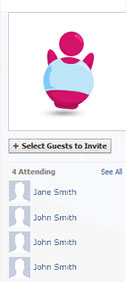
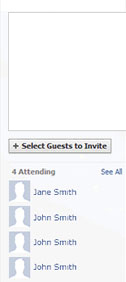
homepage scroller, facebook preview dynamic image

Changed region(s): [[0.3333, 0.0851, 0.7619, 0.4255]]

diff --git a/friendfund/public/css/site.css b/friendfund/public/css/site.css
@@ -923,14 +923,16 @@ span.controller{
 	z-index: 7
 }
 span.controller:hover{
-	background: #f5f5f1;
+	background-color: #f5f5f1;
 	border: 1px solid #ebeae5
 }
 span.controllerRight{
-	right: 4px
+	right: 4px;
+	background: url(/static/imgs/slider/slider-dx.png) 5px 25px no-repeat
 }
 span.controllerLeft{
-	left: 4px
+	left: 4px;
+	background: url(/static/imgs/slider/slider-sx.png) 5px 25px no-repeat
 }
 ul.slider{
 	height: 86px;
@@ -979,13 +981,54 @@ ul.slider li a img{
 	margin: 13px auto 0
 }
 div.whatElse {
-	padding-top: 30px
+	padding-top: 30px;
+	
 }
 div.whatElse h4 {
 	padding-bottom: 20px;
 	font-size: 18px;
-	color: #2C2C2C
+	color: #2C2C2C;
+	position: relative
+} 
+div.whatElse h4 span{
+	font-size: 12px;
+	color: #adadad;
+	font-weight: normal;
+	margin-left: 15px;
+	position: relative
 }
+div.whatElse h4 span.questionPop{
+	display: block;
+	-moz-border-radius:10px;
+	-webkit-border-radius: 10px;
+	border-radius: 10px;
+	background: #51b9ff;
+	position: absolute;
+	top: -5px;
+	right:-25px;
+	color: white;
+	height:20px;
+	width: 20px;
+	text-align: center;
+	line-height: 20px;
+	text-shadow: 0px -1px 0 black;
+	z-index: 11;
+	cursor: pointer
+}
+div.whatElse h4 span div{
+	background: none repeat scroll 0 0 #E5E5E5;
+    border: 1px solid white;
+    padding: 5px 10px;
+    position: absolute;
+    right: -245px;
+    top: 3px;
+    width: 210px;
+    z-index: 10;
+    -moz-box-shadow: 0px 0px 4px #ccc;
+	-webkit-box-shadow: 0px 0px 4px #ccc;
+	box-shadow: 0px 0px 4px #ccc;
+}
+
 div.whatElse .boxGrayWrap{
 	border-top: 1px solid #C5C5C5;
 	border-bottom: 1px solid white;
@@ -1007,11 +1050,13 @@ div.whatElse .boxGray {
 	text-shadow: 0px 1px 0px white
 }
 .grafx {
-	color: #D6D6D6;
-	font-size: 140px;
-	left: -13px;
+	left: -8px;
 	position: absolute;
-	top: 28px;
+	top: -15px;
+	background: url(/static/imgs/quotation_marks.png) 0 0 no-repeat;
+	width: 54px;
+	height: 36px;
+	text-indent: -9999px
 }
 div.box1 .boxGray{
 	padding: 5px 0;
@@ -1104,12 +1149,13 @@ div.subUserProfile h2 {
 div.subUserProfile span {
 	display: block;
 	float: left;
-	font-size: 11px
+	font-size: 12px;
+	text-shadow: 0px 1px 0px white
 }
 div.subUserProfile span.admin {
 	display: block;
 	float: left;
-	color: #999999
+	color: #adadad
 }
 div.subTitleUserProfile {
 	float:left;
@@ -1119,12 +1165,15 @@ div.subTitleUserProfile {
 }
 span.poolClose {
 	font-weight: bold;
-	color:#666666
+	color:#696969
 }
 div.boxPoolDetails {
-	clear: both;
 	float: left;
-	width: 910px;
+	width: 650px;
+	margin-top: 3px
+}
+div.boxPoolDetails span{
+	font-weight: normal !important
 }
 div.timeTracker {
 	width: 210px
@@ -1139,6 +1188,12 @@ div.timeTracker span.percent {
 	line-height: 16px;
 	margin-left: -30px
 }
+div.headerDivider{
+	float:left;
+	border-top: 1px solid #c1c1c1;
+	margin-top: 20px;
+	padding-bottom: 5px
+}
 div.timeTrackerBig {
 	width: 684px;
 	position: relative;
@@ -1149,6 +1204,64 @@ div.timeTracker span {
 	font-weight: bold;
 	color: #2C2C2C;
 	position: relative;
+}
+div.timerCont{
+	float: left;
+	width: 200px;
+	padding-left: 40px;
+	font-size: 11px;
+	color: #adadad;
+	text-shadow: 0 1px 0 white;
+	padding-top: 3px
+}
+div.timer{
+	font-size: 18px;
+	font-weight: bold;
+	color: #696969;
+	float: left;
+	width: 198px;
+	margin-top: 2px;
+	border: 1px solid #e2e2ec;
+	-moz-border-radius:10px;
+	-webkit-border-radius: 10px;
+	border-radius: 10px;
+	background: #f4f4f2;
+}
+div.timer div{
+	 border-right: 1px solid #e2e2ec;
+	 float: left;
+	 width: 48px;
+	 text-align: center;
+	 height: 38px;
+	 line-height: 38px
+}
+div.timer div.rndL{
+	-moz-border-radius:10px;
+	-webkit-border-radius: 10px;
+	border-radius: 10px;
+	-moz-border-radius-bottomright: 0px;
+	-moz-border-radius-topright: 0px;
+	border-bottom-right-radius: 0px;
+	border-top-right-radius: 0px;
+	
+}
+div.timer div.rndR{
+	-moz-border-radius:10px;
+	-webkit-border-radius: 10px;
+	border-radius: 10px;
+	-moz-border-radius-bottomleft: 0px;
+	-moz-border-radius-topleft: 0px;
+	border-bottom-left-radius: 0px;
+	border-top-left-radius: 0px;
+}
+div.timer div.brdW{
+	border-left: 1px solid white
+}
+div.timeSpec{
+	float: left;
+	width: 48px;
+	text-align: center;
+	padding: 0 1px
 }
 div.contributors {
 	float:left;
@@ -1196,7 +1309,8 @@ div.contributors span {
 	font-size: 11px;
 	line-height: 35px;
 	padding: 0 0 0 25px;
-	color: #8f8f8f
+	color: #8f8f8f;
+	
 }
 div.invitees span {
 	display: block;
@@ -1717,7 +1831,7 @@ div.comments input {
 	margin-right: 10px
 }
 .boxChipIn {
-	background:#ebebeb;
+	background:#e7e7de;
 	padding: 20px;
 	text-align: center
 }
@@ -4082,7 +4196,9 @@ table.fee td {
 	float:right;
 	width:421px;
 	border-left: 1px solid #B3B3B3;
-	padding:0
+	padding:0;
+	min-height:282px
+	
 }
 .colRightFb h1 {
 	font-size: 14px;
@@ -4091,7 +4207,13 @@ table.fee td {
 .colLeftFb {
 	float: left;
 	width: 158px;
+	position: relative;
 	text-align: right
+}
+.colLeftFb  img.prod{
+	position: absolute;
+	left: 41px;
+	top: 13px
 }
 .colRightFb table {
 	margin: 20px 20px 0 20px
@@ -4362,13 +4484,13 @@ div.second p, div.second a {
 	border: 5px solid white;
 	display: block;
 	float: left;
-	margin: 15px 20px 0 0;
+	margin: 30px 20px 0 0;
 }
 .poolHead div.subUserProfile h2 {
 	float: left;
 	font-size: 36px;
 	line-height: 36px;
-	margin: 20px 0 0;
+	margin: 30px 0 0;
 	padding: 0;
 }
 .subSpacer {

diff --git a/friendfund/templates_free_form/pool/pool.html b/friendfund/templates_free_form/pool/pool.html
@@ -102,33 +102,54 @@
 				<div class="subTitleUserProfile">
 					<span class="poolClose">${_(u"FF_POOL_PAGE_HEADER_Pool closes on %(closing_date)s")%locals}&nbsp; &nbsp; &middot; &nbsp; &nbsp;</span><span class="admin">${_(u"FF_POOL_PAGE_HEADER_by %(admin_name)s")%locals}</span></div>
 			</div>
-			<div class="timeTracker floatLeft timeTrackerBig">
-				
-				<div class="timeCounter">
-				<span class="floatRight">${c.pool.get_display_amount()}</span>
-				<span class="floatLeft">${h.format_currency(0, c.pool.currency)|n}</span>
-				%if c.pool.is_closed():
-					<span class="percent">${_("FF_NEWSSTREAM_SUCCESSFUL!")}</span>
-				%else:
-					<span class="percent">${int(c.pool.funding_progress()*100)}%</span>
-				%endif
-					<div class="timeCounterRight" style="width:100%">
-					<div class="timeCounterLeft" style="width:${int(c.pool.funding_progress()*100)}%"></div>
-						<div class="progTooltip" style="position: absolute; top:-23px;left:${int(c.pool.funding_progress()*100)}%;">${locals['chipped_in_amount']}<div class="arrTool"></div></div>
-					</div>
-				</div>
-			</div>
-			<div class="boxPoolDetails">
-				<div class="contributors"><span>${widgets.renderPoolInfoContributors(locals)}</span></div>
-				<div class="heavyMd"></div>
-				<div class="invitees"><span>${widgets.renderPoolInfoInvitees(locals)}</span></div>
-				<div class="chippedIn"><span><strong>${locals['chipped_in_amount']}</strong> ${_(u"FF_POOL_PAGE_HEADER_Chipped in")}</span></div>
-				<div class="heavyMd"></div>
-				<div class="outstanding"><span><strong>${h.format_currency(c.pool.get_amount_left(), c.pool.currency)}</strong> ${_(u"FF_POOL_PAGE_HEADER_Outstanding")}</span></div>
-				<div class="daysLeft"><span>${widgets.renderPoolInfoDaysLeft(locals)}</span></div>
-				<div class="clear"></div>
-			</div>
-		<div class="clear"></div>
+            <div class="headerDivider">
+            	<div class="colRightWhite"></div>
+                <div class="timeTracker floatLeft timeTrackerBig">
+                    
+                    <div class="timeCounter">
+                    <span class="floatRight">${c.pool.get_display_amount()}</span>
+                    <span class="floatLeft">${h.format_currency(0, c.pool.currency)|n}</span>
+                    %if c.pool.is_closed():
+                        <span class="percent">${_("FF_NEWSSTREAM_SUCCESSFUL!")}</span>
+                    %else:
+                        <span class="percent">${int(c.pool.funding_progress()*100)}%</span>
+                    %endif
+                        <div class="timeCounterRight" style="width:100%">
+                        <div class="timeCounterLeft" style="width:${int(c.pool.funding_progress()*100)}%"></div>
+                            <div class="progTooltip" style="position: absolute; top:-23px;left:${int(c.pool.funding_progress()*100)}%;">${locals['chipped_in_amount']}<div class="arrTool"></div></div>
+                        </div>
+                    </div>
+                    <div class="boxPoolDetails">
+                        <div class="contributors"><span>${widgets.renderPoolInfoContributors(locals)}</span></div>
+                        <div class="heavyMd"></div>
+                        <div class="invitees"><span>${widgets.renderPoolInfoInvitees(locals)}</span></div>
+                        <div class="chippedIn"><span><strong>${locals['chipped_in_amount']}</strong> ${_(u"FF_POOL_PAGE_HEADER_Chipped in")}</span></div>
+                        <div class="heavyMd"></div>
+                        <div class="outstanding"><span><strong>${h.format_currency(c.pool.get_amount_left(), c.pool.currency)}</strong> ${_(u"FF_POOL_PAGE_HEADER_Outstanding")}</span></div>
+                        
+                        <div class="clear"></div>
+                    </div>
+                </div>
+                
+                <div class="timerCont">
+                	<div>Pool closes in</div>
+                	<div class="timer">
+                    	<div class="rndL">4</div>
+                        <div class="brdW">12</div>
+                        <div class="brdW">36</div>
+                        <div class="brdW rndR" style="border-right:0">10</div>
+               
+                    </div>
+                    	<div class="timeSpec">days</div>
+                        <div class="timeSpec">hrs</div>
+                        <div class="timeSpec">min</div>
+                        <div class="timeSpec">sec</div>
+                </div>
+            
+                    
+                <div class="clear"></div>
+        	</div>
+            <div class="clear"></div>
 		</div>
 	</div>
 </div>

diff --git a/friendfund/templates_free_form/index.html b/friendfund/templates_free_form/index.html
@@ -68,7 +68,10 @@ ${self.renderMessages()}
 	</div>
 	<div class="colRightWhite"></div>
 	<div class="whatElse">
-		<h4>${_("FF_HOMEPAGE_BOXES_Where else can I use friendfund?")}</h4>
+		<h4>${_("FF_HOMEPAGE_BOXES_Where else can I use friendfund?")}<span>Visit our Partner site to buy stuff toghether.<span class="questionPop">? </span><div>friendfund has teamed up with 
+some amazing merchants to give 
+you the best possible group gifting 
+experience.</div></span></h4>
 		<div class="boxGrayWrap box1">
 			<div class="boxGray">
 			<span class="controller controllerRight"> &laquo; </span>

diff --git a/friendfund/templates_free_form/invite/preview/preview_facebook.html b/friendfund/templates_free_form/invite/preview/preview_facebook.html
@@ -29,7 +29,7 @@
 		</table>
 		<img src="/static/imgs/fbFooter.jpg" />
 	  </div>
-	<div class="colLeftFb"><img src="/static/imgs/fbLeftCol.jpg"  /></div>
+	<div class="colLeftFb"> <img src="${c.pool.get_product_display_picture("FF_POOL_PIC_S")}" height="117px" width="117px" class="prod"><img src="/static/imgs/fbLeftCol.jpg"  />
 	<span style="margin: 30px 0pt 20px; clear:both" class="panelcloser floatLeft primarySmall">${_("FF_INVITE_PREVIEW_Close")}</span>
 	<div class="clear"></div>
 	</div>
